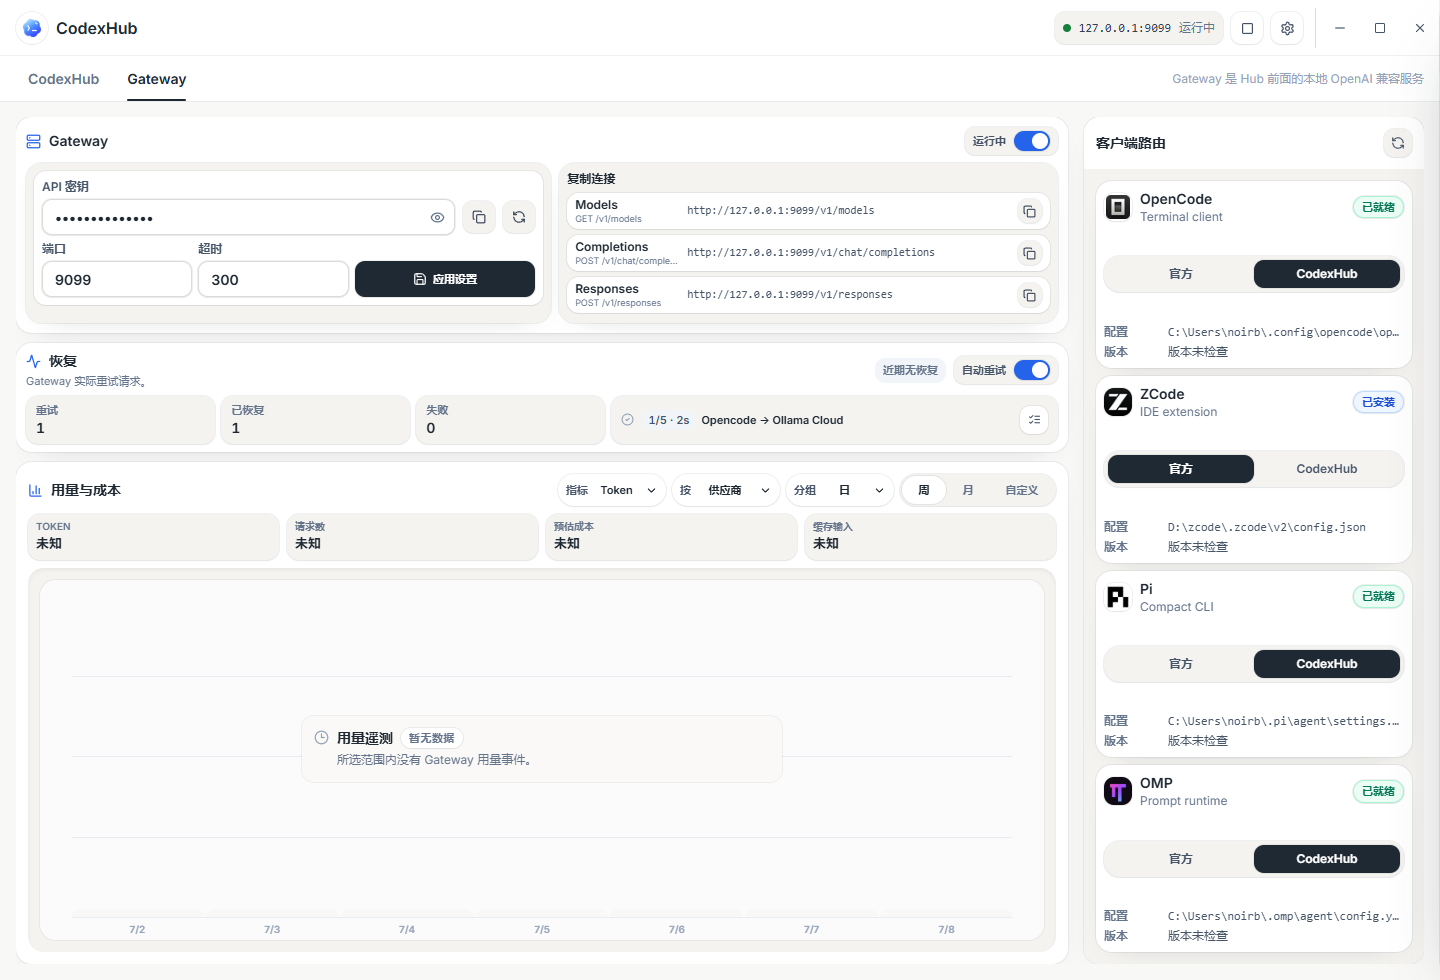
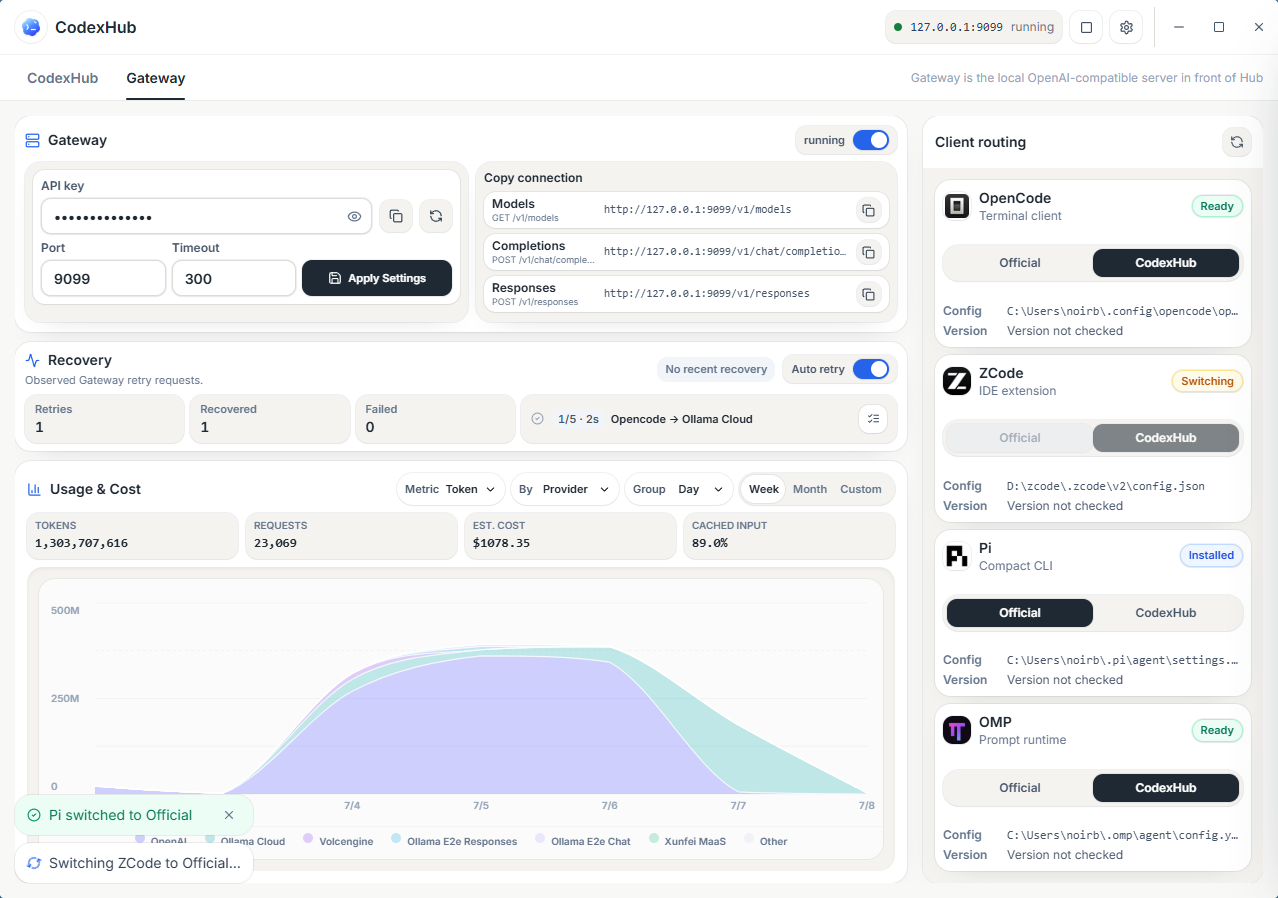
docs: refresh readme screenshots

diff --git a/README.md b/README.md
@@ -30,7 +30,9 @@ After Codex is connected to CodexHub, the Gateway must keep running because Code
 
 The desktop app and Gateway have independent lifecycles. Closing the window hides it to the tray; it does not stop the Gateway. You can also start, stop, or restart the Gateway from the UI, tray menu, or CLI.
 
-![CodexHub connected overview](docs/assets/readme/codexhub-overview-en.png)
+**Figure 1: Real-account Provider catalog and connection state**
+
+![CodexHub real-account Provider catalog and connection state](docs/assets/readme/codexhub-overview-en.png)
 
 ## Core Features
 
@@ -70,6 +72,10 @@ CodexHub updates the Codex configuration so model requests go to the local Gatew
 - The default local endpoint is `http://127.0.0.1:9099`.
 
 CodexHub does not try to replace the Codex protocol. It stays transparent for official models and adds compatibility for third-party models only where needed.
+
+**Figure 2: Use official and third-party models side by side in Codex**
+
+![Official and third-party models in the Codex model picker](docs/assets/readme/codexhub-codex-model-picker.jpg)
 
 ### Configuring Providers
 
@@ -129,6 +135,10 @@ The Gateway page detects local OpenCode, ZCode, Pi, and OMP config locations and
 
 ![Gateway endpoints, usage, and client routing](docs/assets/readme/codexhub-gateway-en.png)
 
+**Figure 3: Use your OpenAI subscription in software that cannot sign in with OpenAI auth**
+
+![ZCode using OpenAI subscription models through CodexHub](docs/assets/readme/codexhub-zcode-openai-subscription.jpg)
+
 ### Vision Proxy
 
 Vision Proxy lets non-vision models handle image requests. When enabled, choose an image-capable model as the Vision model.
@@ -152,6 +162,10 @@ If the target model already supports image input, the Gateway leaves the image a
 Provider models default to text-only. If a third-party model actually supports image input, mark it as Vision-capable in the model settings or add `input_modalities = ["text", "image"]` to its configuration.
 
 ![Vision Proxy settings](docs/assets/readme/codexhub-vision-proxy-en.png)
+
+**Figure 4: Let non-vision models see images**
+
+![A non-vision model understanding an image through Vision Proxy](docs/assets/readme/codexhub-vision-proxy-result.jpg)
 
 ## Source Development
 